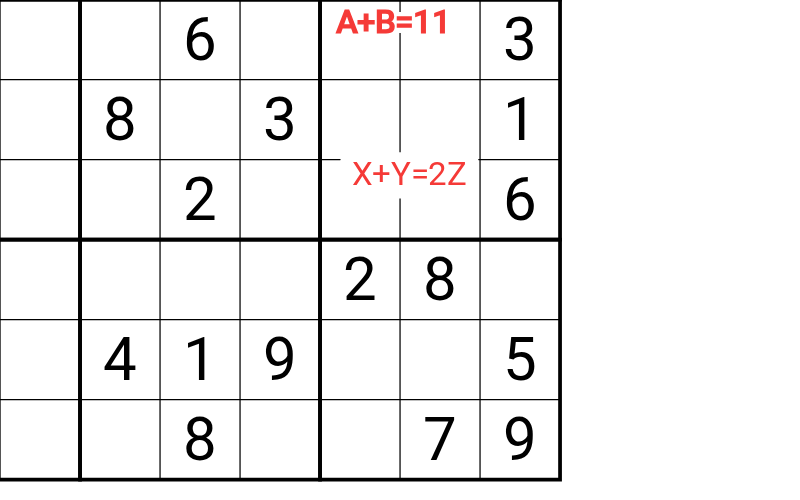
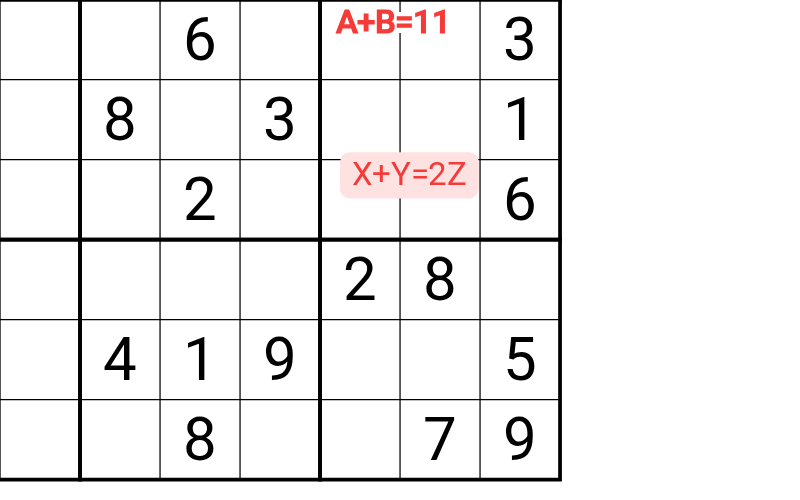
Site: Text Anywhere's Background slide shows a Tint box, not the page-white one

Changed region(s): [[0.4062, 0.3, 0.625, 0.42]]

diff --git a/site/index.html b/site/index.html
@@ -81,7 +81,7 @@
         <img class="slide current" src="https://raw.githubusercontent.com/caneff/sudokupad-scripts/main/docs/research/text-anywhere/text-anywhere-slide-1-type.png?v=85517f9" alt="Three orange lines typed with Enter in the margin beside the top rows of the grid, A=B+5, A+B=11 and B=3, A=8" width="800" height="500">
         <img class="slide" src="https://raw.githubusercontent.com/caneff/sudokupad-scripts/main/docs/research/text-anywhere/text-anywhere-slide-2-format.png?v=2d3bfa8" alt="An orange note in the margin beside the grid: a bold header X-wing on 6, then r2 and r8 in bold with an arrow to c3, c7, then a ticked and struck-through checklist item box 1 and an unticked one, box 7" width="800" height="500">
         <img class="slide" src="https://raw.githubusercontent.com/caneff/sudokupad-scripts/main/docs/research/text-anywhere/text-anywhere-slide-3-style.png?v=fbe2e09" alt="A small green note and a large red note above the grid, and a faint blue note on the board, beside the Text Anywhere panel with its nine colors, Size slider and Opacity slider" width="800" height="500">
-        <img class="slide" src="https://raw.githubusercontent.com/caneff/sudokupad-scripts/main/docs/research/text-anywhere/text-anywhere-slide-4-background.png?v=5354920" alt="A bold red formula, A+B=11, on a cell edge with no box, and a red formula, X+Y=2Z, in a page-colored box that hides the grid lines under it" width="800" height="500">
+        <img class="slide" src="https://raw.githubusercontent.com/caneff/sudokupad-scripts/main/docs/research/text-anywhere/text-anywhere-slide-4-background.png?v=a23bc39" alt="A bold red formula, A+B=11, on a cell edge with no box, and a red formula, X+Y=2Z, in a pale red box that hides the grid lines under it" width="800" height="500">
         <img class="slide" src="https://raw.githubusercontent.com/caneff/sudokupad-scripts/main/docs/research/text-anywhere/text-anywhere-slide-5-select.png?v=2959423" alt="Three blue notes in the margin, A=B+5 and X+Y=2Z above the grid and r1: 4,6 in c7-9 beside row 1, each with a solid purple outline, selected by a solid purple drag box and recolored from orange to blue together" width="800" height="500">
         <img class="slide" src="https://raw.githubusercontent.com/caneff/sudokupad-scripts/main/docs/research/text-anywhere/text-anywhere-slide-6-long.png?v=c5a31fe" alt="A blue note in the margin, open for typing and made two lines tall with the handle on its bottom right corner, scrolled to the end to show 2B+5=11 and B=3, A=8, with its scroll bar beside the text" width="800" height="500">
         <img class="slide" src="https://raw.githubusercontent.com/caneff/sudokupad-scripts/main/docs/research/text-anywhere/text-anywhere-slide-7-hide.png?v=87081dd" alt="The board with no notes showing, beside the Text Anywhere panel with a red ring on its pressed eye button, which shows a closed eye" width="800" height="500">

diff --git a/site/text-anywhere.html b/site/text-anywhere.html
@@ -19,7 +19,7 @@
       <img class="slide current" src="https://raw.githubusercontent.com/caneff/sudokupad-scripts/main/docs/research/text-anywhere/text-anywhere-slide-1-type.png?v=85517f9" alt="Three orange lines typed with Enter in the margin beside the top rows of the grid, A=B+5, A+B=11 and B=3, A=8" width="800" height="500">
       <img class="slide" src="https://raw.githubusercontent.com/caneff/sudokupad-scripts/main/docs/research/text-anywhere/text-anywhere-slide-2-format.png?v=2d3bfa8" alt="An orange note in the margin beside the grid: a bold header X-wing on 6, then r2 and r8 in bold with an arrow to c3, c7, then a ticked and struck-through checklist item box 1 and an unticked one, box 7" width="800" height="500">
       <img class="slide" src="https://raw.githubusercontent.com/caneff/sudokupad-scripts/main/docs/research/text-anywhere/text-anywhere-slide-3-style.png?v=fbe2e09" alt="A small green note and a large red note above the grid, and a faint blue note on the board, beside the Text Anywhere panel with its nine colors, Size slider and Opacity slider" width="800" height="500">
-      <img class="slide" src="https://raw.githubusercontent.com/caneff/sudokupad-scripts/main/docs/research/text-anywhere/text-anywhere-slide-4-background.png?v=5354920" alt="A bold red formula, A+B=11, on a cell edge with no box, and a red formula, X+Y=2Z, in a page-colored box that hides the grid lines under it" width="800" height="500">
+      <img class="slide" src="https://raw.githubusercontent.com/caneff/sudokupad-scripts/main/docs/research/text-anywhere/text-anywhere-slide-4-background.png?v=a23bc39" alt="A bold red formula, A+B=11, on a cell edge with no box, and a red formula, X+Y=2Z, in a pale red box that hides the grid lines under it" width="800" height="500">
       <img class="slide" src="https://raw.githubusercontent.com/caneff/sudokupad-scripts/main/docs/research/text-anywhere/text-anywhere-slide-5-select.png?v=2959423" alt="Three blue notes in the margin, A=B+5 and X+Y=2Z above the grid and r1: 4,6 in c7-9 beside row 1, each with a solid purple outline, selected by a solid purple drag box and recolored from orange to blue together" width="800" height="500">
       <img class="slide" src="https://raw.githubusercontent.com/caneff/sudokupad-scripts/main/docs/research/text-anywhere/text-anywhere-slide-6-long.png?v=c5a31fe" alt="A blue note in the margin, open for typing and made two lines tall with the handle on its bottom right corner, scrolled to the end to show 2B+5=11 and B=3, A=8, with its scroll bar beside the text" width="800" height="500">
       <img class="slide" src="https://raw.githubusercontent.com/caneff/sudokupad-scripts/main/docs/research/text-anywhere/text-anywhere-slide-7-hide.png?v=87081dd" alt="The board with no notes showing, beside the Text Anywhere panel with a red ring on its pressed eye button, which shows a closed eye" width="800" height="500">
